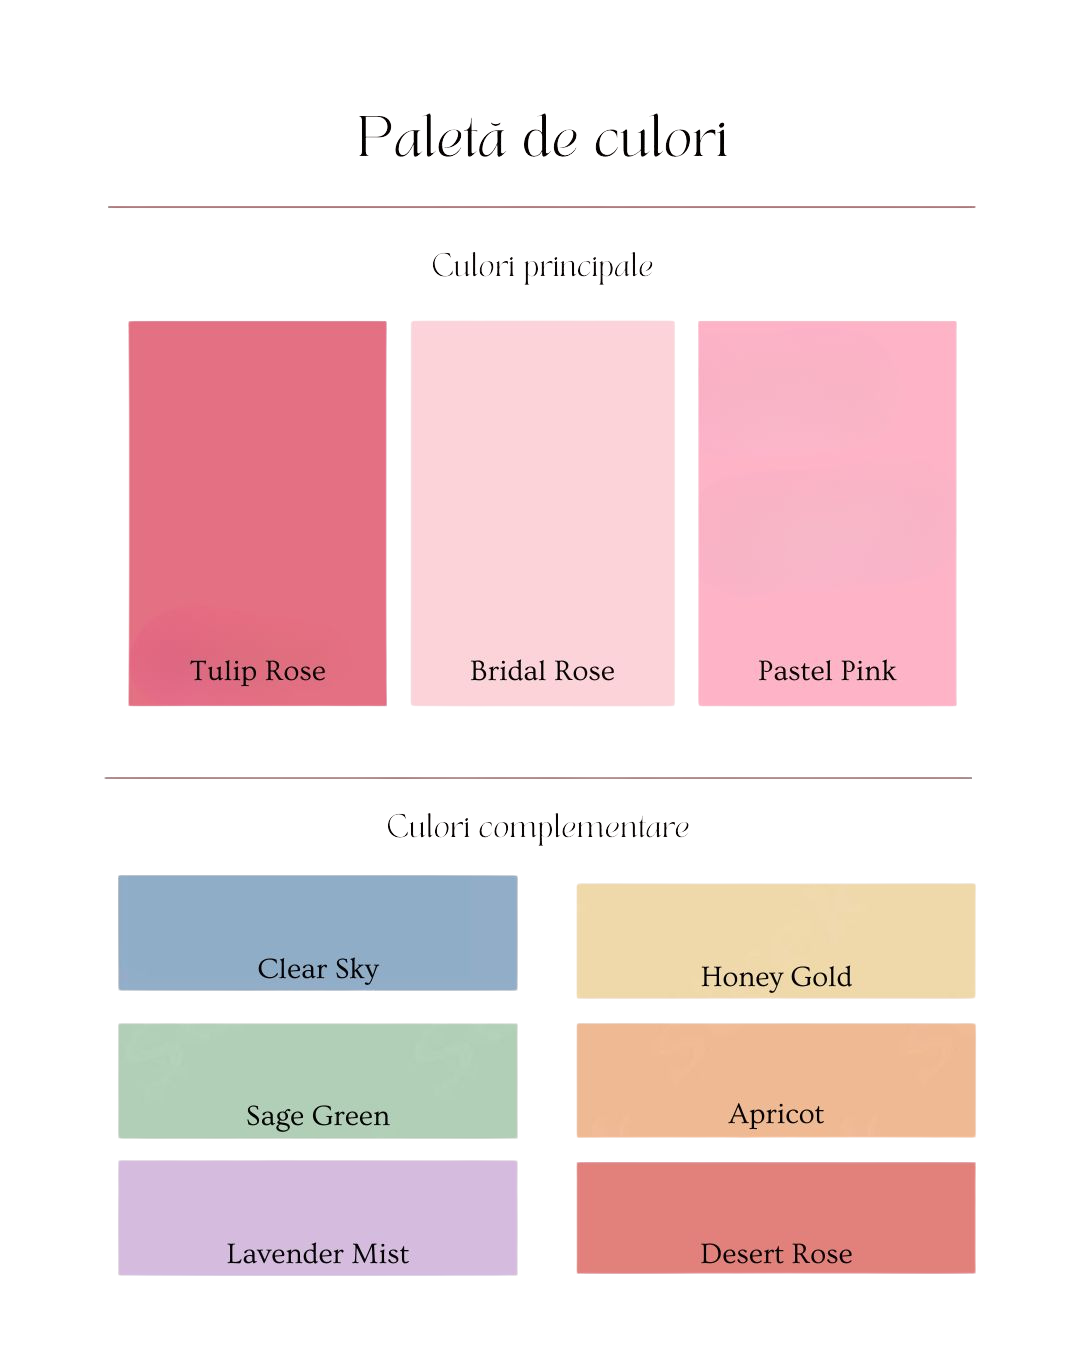
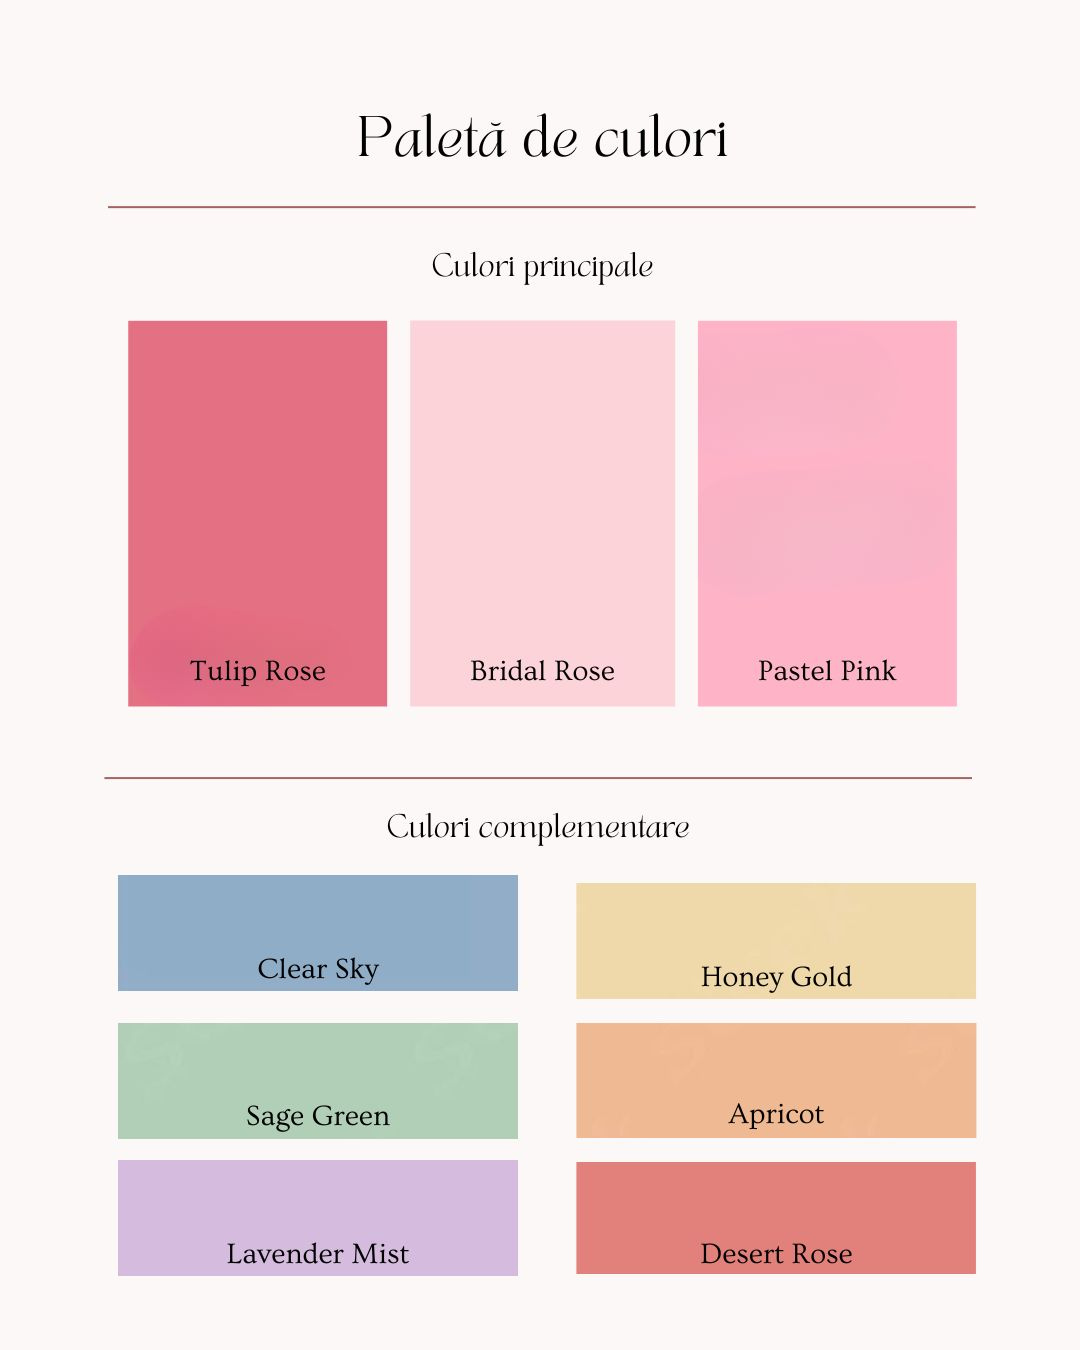
hai

diff --git a/src/data/weddingData.js b/src/data/weddingData.js
@@ -14,11 +14,11 @@ export const weddingData = {
     dateLabel: "27 Iunie 2026",
     locationLabel: "Beclean, Bistrița-Năsăud",
     heroImages: [
-      `${base}images/hero1.jpeg`,
-      `${base}images/hero2.jpeg`,
-      `${base}images/hero3.jpeg`,
-      `${base}images/hero4.jpeg`,
-      `${base}images/hero5.jpeg`,
+      `${base}images/hero1.jpg`,
+      `${base}images/hero2.jpg`,
+      `${base}images/hero3.jpg`,
+      `${base}images/hero4.jpg`,
+      `${base}images/hero5.jpg`,
     ]
   },
 
@@ -44,7 +44,7 @@ export const weddingData = {
     },
     {
       time: "09:30",
-      title: "Plecarea în Beclean",
+      title: "Plecarea spre Beclean",
       place: "",
       icon: `${base}images/Drum_spre_Beclean.png`
     },
@@ -63,7 +63,7 @@ export const weddingData = {
     {
       time: "15:00",
       title: "Masa festivă",
-      place: "Villa Franca",
+      place: "Villa Franca, Bistrița",
       icon: `${base}images/masa_festiva.png`
     }
   ],
@@ -128,7 +128,7 @@ export const weddingData = {
       title: "Masa festivă",
       time: "15:00",
       place: "Villa Franca",
-      address: "Str. Calea Dejului, nr. 18, Beclean",
+      address: "Str. Calea Dejului, nr. 18, Bistrița",
       mapsLink: "https://www.google.com/maps/search/?api=1&query=Villa+Franca+Beclean"
     }
   },
@@ -140,12 +140,12 @@ export const weddingData = {
   },
 
   gallery: [
-    `${base}images/couple-1.jpeg`,
-    `${base}images/couple-2.jpeg`,
-    `${base}images/couple-3.jpeg`,
-    `${base}images/couple-4.jpeg`,
-    `${base}images/gallery-1.jpeg`,
-    `${base}images/couple-5.jpeg`
+    `${base}images/couple-1.jpg`,
+    `${base}images/couple-2.jpg`,
+    `${base}images/couple-3.jpg`,
+    `${base}images/couple-4.jpg`,
+    `${base}images/couple-6.jpg`,
+    `${base}images/couple-5.jpg`
   ],
 
   uploadPhotos: {

diff --git a/src/components/Story.jsx b/src/components/Story.jsx
@@ -15,7 +15,7 @@ function Story() {
           </div>
 
           <div className="story-editorial__image">
-            <img src={`${import.meta.env.BASE_URL}images/couple-1.jpeg`} alt="Darius și Iazmina" />
+            <img src={`${import.meta.env.BASE_URL}images/couple-5.jpg`} alt="Darius și Iazmina" />
           </div>
         </div>
 
